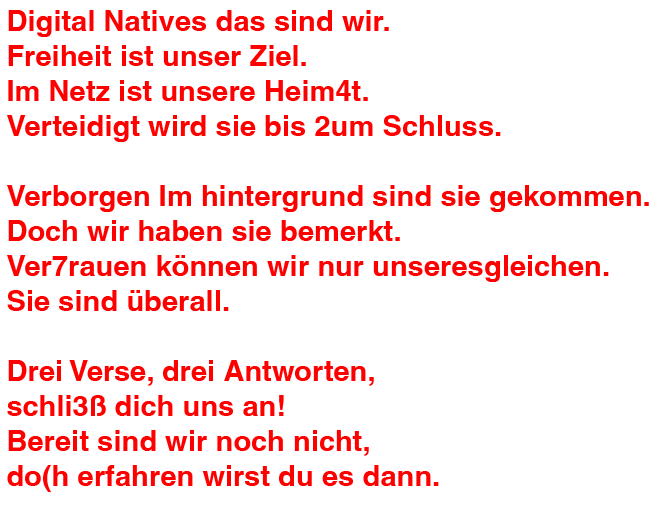
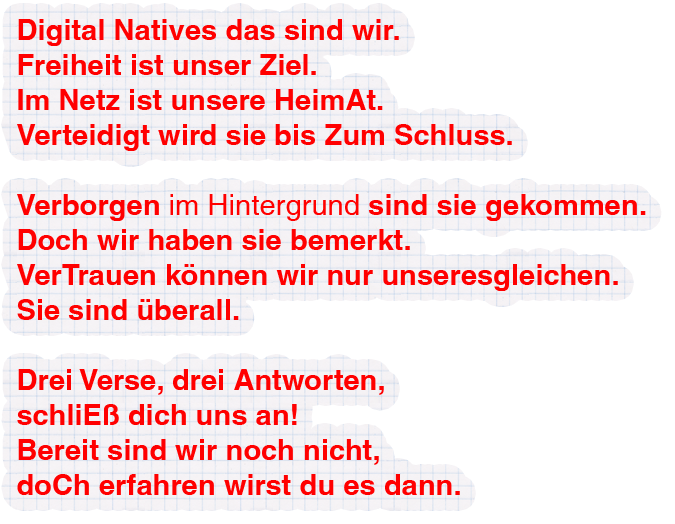
Signed-off-by: mrwellmann <mrwellmann@gmail.com>

Changed region(s): [[0.0, 0.3417, 1.0, 0.6524], [0.0, 0.0, 0.7645, 0.3107], [0.0, 0.6835, 0.7034, 0.9631]]

diff --git a/public/stylesheets/dn.css b/public/stylesheets/dn.css
@@ -5,6 +5,7 @@
 }
 
 body {
+background-image: url(../images/bg.png);
   font: 100% Arial, Helvetica, sans-serif;
   text-align: left;
   min-width: 660px;
@@ -15,7 +16,6 @@ body {
 
 	top: 0;
     left: 0;
-
 	min-width: 660px;
  	min-height:630px; 
     position:absolute;
